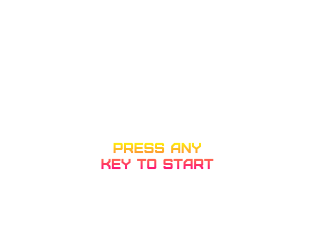
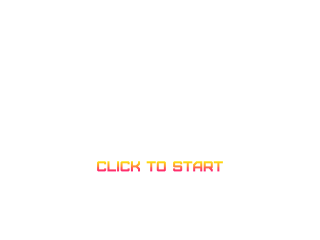
Finishing main menu

Changed region(s): [[0.2812, 0.5833, 0.7188, 0.7292]]

diff --git a/client/src/game/menus/MainMenu.ts b/client/src/game/menus/MainMenu.ts
@@ -1,6 +1,6 @@
 import { Graphics2D } from "../../../../engine/interfaces";
 import { Assets } from "../Assets";
-import { Keyboard } from "../../../../engine/input/Keyboard";
+import { Mouse } from "../../../../engine/input/Mouse";
 
 export class MainMenu {
 	private _background: CanvasImageSource;
@@ -9,7 +9,7 @@ export class MainMenu {
 
 	constructor(
 		private _assets: Assets,
-		private _keyboard: Keyboard,
+		private _mouse: Mouse,
 		private _ready: () => void
 	) {
 		this._background = _assets.getImage("mainMenu");
@@ -19,7 +19,7 @@ export class MainMenu {
 	render(graphics: Graphics2D) {
 		graphics.image(this._background, 0, 0);
 
-		if (Math.floor(this._timer) % 2) {
+		if (Math.floor(this._timer * 2) % 2) {
 			graphics.image(this._pressToStart, 0, 0);
 		}
 	}
@@ -27,7 +27,7 @@ export class MainMenu {
 	update(deltaInSeconds: number) {
 		this._timer += deltaInSeconds;
 
-		if (this._keyboard.anyKey) {
+		if (this._mouse.mouseDown) {
 			this._ready();
 		}
 	}

diff --git a/engine/Engine.ts b/engine/Engine.ts
@@ -5,6 +5,7 @@ import { Camera, Coordinate, Menu, Graphics2D, Layer } from "./interfaces";
 import { Sprite, Track } from "./Track";
 import { Keyboard } from "./input/Keyboard";
 import { CanvasGraphics2D } from "./renderer/CanvasGraphics2D";
+import {Mouse} from "./input/Mouse";
 
 function overlap(
 	x1: number,
@@ -25,6 +26,7 @@ export class Engine {
 	sound: Sound;
 	renderer: Renderer;
 	keyboard: Keyboard;
+	mouse: Mouse;
 	graphics2d: Graphics2D;
 	menus: Menu[] = [];
 	layers: Layer[] = [];
@@ -65,6 +67,7 @@ export class Engine {
 		);
 
 		this.keyboard = new Keyboard();
+		this.mouse = new Mouse();
 		this.sound = new Sound();
 		this.graphics2d = new CanvasGraphics2D(context);
 	}

diff --git a/client/src/game/levels/Mountains.ts b/client/src/game/levels/Mountains.ts
@@ -6,10 +6,18 @@ import { arrayChoice, chance, choice } from "../helpers";
 import {SpriteFlag} from "../interfaces";
 
 export class Mountains implements Level {
+	private _initialized = false;
+
 	constructor(private assets: Assets) {}
 
 	generateTrack(track: Track) {
 		const size = 300;
+
+		if(!this._initialized) {
+			this._initialized = true;
+
+			track.addStraight(25, streetRoad);
+		}
 
 		let curves = [
 			Curve.None,

diff --git a/client/src/game/Assets.ts b/client/src/game/Assets.ts
@@ -15,7 +15,7 @@ const images: Record<string, string> = {
 	bearUpright: require("./assets/bear-upright.png"),
 	bearUprightCarnage: require("./assets/bear-upright-carnage.gif"),
 	scoreFont: require("./assets/score-font.png"),
-	mainMenu: require('./assets/main-menu.jpg'),
+	mainMenu: require('./assets/main-menu.png'),
 	pressToStart: require('./assets/press-to-start.png')
 };
 

diff --git a/client/src/game/Game.ts b/client/src/game/Game.ts
@@ -58,7 +58,7 @@ export class Game {
 
 		this._scoreLayer = new ScoreLayer(this._assets);
 		this._engine.addLayer(this._scoreLayer);
-		this._engine.addMenu(new MainMenu(this._assets, this._engine.keyboard, () => {
+		this._engine.addMenu(new MainMenu(this._assets, this._engine.mouse, () => {
 			this._engine.removeMenu();
 		}));
 

diff --git a/engine/input/Mouse.ts b/engine/input/Mouse.ts
@@ -1,0 +1,13 @@
+export class Mouse {
+	mouseDown: boolean;
+
+	constructor() {
+		window.addEventListener("mousedown", event => {
+			this.mouseDown = true;
+		});
+
+		window.addEventListener("mouseup", event => {
+			this.mouseDown = false;
+		});
+	}
+}

diff --git a/client/webpack.config.js b/client/webpack.config.js
@@ -27,7 +27,6 @@ html, body {
 #app {
     width: 100%;
     height: 100%;
-    cursor: none;
 }
 </style>
             `
